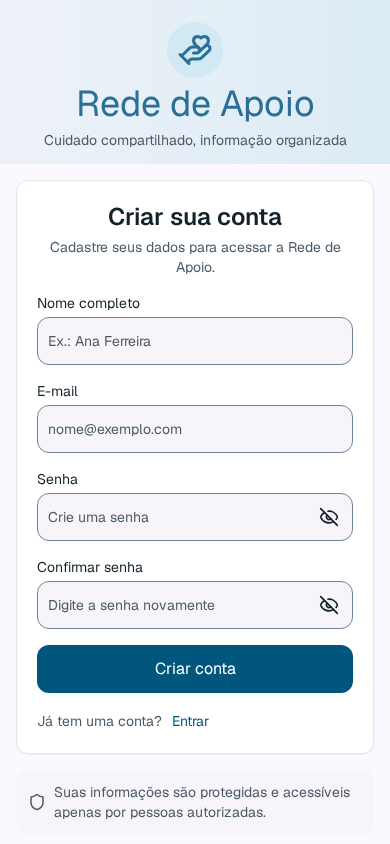
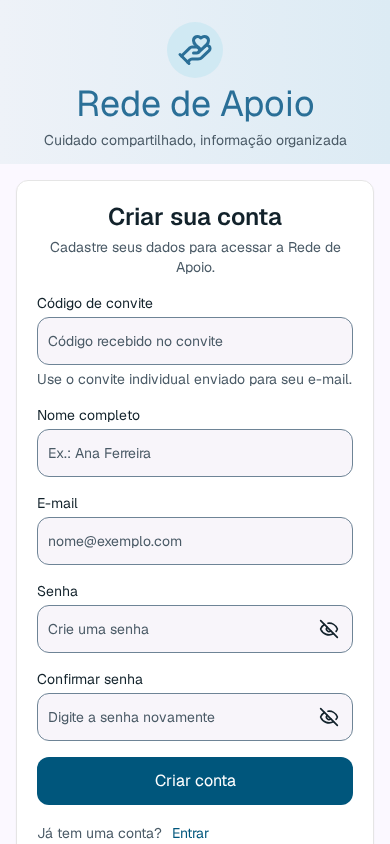
docs(auth): record real MySQL invitation evidence and remaining gates

diff --git a/docs/10_IMPLEMENTACAO/US001_CADASTRO_CONTA_V1.md b/docs/10_IMPLEMENTACAO/US001_CADASTRO_CONTA_V1.md
@@ -1,99 +1,95 @@
-# US-001 — Cadastro de Conta: implementação parcial para revisão
+# US-001 / RF01 / T02 — cadastro de CUIDADOR por convite
 
-**Issue:** [#37](https://github.com/webkauadev/rede-de-apoio/issues/37). **Branch:** `feat/us001-cadastro-conta-v1`. **Owner:** David, preservado. Base: scaffold revisado e incorporado em `ed75c72`, PR #118. Esta entrega não conclui a US e não libera cadastro em ambiente público.
+**Estado:** fluxo local implementado, em validação/revisão humana no **Draft PR #120**, branch `feat/us001-cadastro-conta-v1`. Owner David preservado. Nenhum merge, deploy ou encerramento automático da Issue.
 
-## Fontes e escopo
+## Fontes canônicas
 
-- [Comentário técnico atual](https://github.com/webkauadev/rede-de-apoio/issues/37#issuecomment-6091789679), [aceite aprovado](https://github.com/webkauadev/rede-de-apoio/issues/37#issuecomment-5673832998), [RF01/#5](https://github.com/webkauadev/rede-de-apoio/issues/5), RNF01.
-- [Aceites canônicos](../01_REQUIREMENTS/ACCEPTANCE_CRITERIA.yaml), [decisões V1](DECISOES_V1_HOMOLOGADAS.md), [stack](STACK_V1_HOMOLOGADA.md), [gates](GATES_DE_IMPLANTACAO_V1.md), [permissões](../02_BUSINESS_RULES/PERMISSIONS_MATRIX.md).
-- T02: [baseline congelada](FIGMA_SNAPSHOT/assets/T02.png), [registry](../07_AI_CONTEXT/SCREEN_REGISTRY.yaml), [estados](../07_AI_CONTEXT/STATE_MATRIX.yaml), [tokens](../04_DESIGN_SYSTEM/DESIGN_TOKENS.md) e [componentes](../04_DESIGN_SYSTEM/COMPONENT_MAP.yaml). Nenhum snapshot, RF, aceite, permissão ou DDL foi alterado.
+- [Issue #37](https://github.com/webkauadev/rede-de-apoio/issues/37), [três aceites aprovados](https://github.com/webkauadev/rede-de-apoio/issues/37#issuecomment-5673832998), RF01/RNF01.
+- **[DEC-AUTH-001 homologada](DEC_AUTH_001_CONVITES_CUIDADORES.md)** e [aprovação na Issue](https://github.com/webkauadev/rede-de-apoio/issues/37#issuecomment-6092864135) resolvem a lacuna de autorização de cadastro. Não permanece BLOCKED_BY_DECISION para esse modelo.
+- [Instruções de continuação do PR](https://github.com/webkauadev/rede-de-apoio/pull/120#issuecomment-6092916927), [decisões V1](DECISOES_V1_HOMOLOGADAS.md), [stack](STACK_V1_HOMOLOGADA.md), [aceites](../01_REQUIREMENTS/ACCEPTANCE_CRITERIA.yaml), [permissões](../02_BUSINESS_RULES/PERMISSIONS_MATRIX.md), [gates](GATES_DE_IMPLANTACAO_V1.md).
+- [T02 congelada](FIGMA_SNAPSHOT/assets/T02.png), [estados](../07_AI_CONTEXT/STATE_MATRIX.yaml), [tokens](../04_DESIGN_SYSTEM/DESIGN_TOKENS.md). Baseline e critérios não foram alterados.
 
-`/cadastro` implementa T02 com AuthShell, campos nome/e-mail/senha/confirmação, visibilidade de senha, validações associadas aos campos, foco no primeiro erro, loading sem duplo envio e feedback de indisponibilidade no mesmo shell. Não usa a navegação autenticada. Todos os controles têm pelo menos 48 × 48 px; scroll fica contido abaixo do header. Desktop centraliza a composição de 390 px da baseline; telas menores podem rolar. O botão Entrar permanece desabilitado até T01/US-002. Confirmação de criação no componente só pode aparecer com resposta 201 real; o resolver atual torna esse caminho inacessível. Não existe login automático, sessão ou redirecionamento funcional nesta entrega.
+## Fluxo e segurança
 
-## Bloqueios explícitos
+1. Operador técnico local, autenticado pelo SO e por credenciais do MySQL descartável autorizado, emite o primeiro convite pela CLI. Não existe endpoint de emissão, formulário público, usuário admin ou papel do operador no app.
+2. T02 aceita código individual mascarado ou fragmento `#convite=...`. O navegador remove o fragmento do histórico antes de preencher o campo; token não vai em query/referrer, storage ou analytics. A página usa `no-referrer`. Dados inválidos têm mensagens ligadas aos campos e foco; loading mantém o AuthShell. A adição de código/ajuda é o delta necessário da DEC-AUTH-001; demais campos/tokens/controles são reutilizados. Conteúdo maior rola no viewport abaixo do header, inclusive em 320×568; targets ≥48×48.
+3. Backend exige origem canônica **explicitamente configurada** e JSON limitado a 8192 bytes. Zod estrito rejeita campos de papel/rede/categoria/autorização/emitente. Senhas são preservadas sem trim, confirmação igual e limite técnico 1024 bytes. E-mail usa trim/lowercase, formato e limite 254; nome trim/limite 160. Não foi inventada política de composição de senha.
+4. Antes de Argon2id, aplica limite persistente por janela UTC no MySQL e verifica token SHA-256, e-mail exato, expiração, uso e revogação. Nenhum erro expõe existência de e-mail, SQL, credenciais ou token. O retorno 409 genérico também cobre convite usado e conflito de unicidade.
+5. Argon2id real (`argon2` 0.45.1), m=19456 KiB, t=2, p=1, salt aleatório, hash 32 bytes. [OWASP](https://cheatsheetseries.owasp.org/cheatsheets/Password_Storage_Cheat_Sheet.html), [node-argon2](https://github.com/ranisalt/node-argon2).
+6. Transação confirma novamente convite com `SELECT ... FOR UPDATE`, insere somente `usuario/CUIDADOR`, consome convite exigindo uma linha alterada e grava auditoria PERMITIDO. Qualquer falha reverte esses efeitos juntos. UNIQUE do e-mail é a garantia final. DENY de convite/dados é sanitizado e persiste fora do rollback; limitações ficam nos contadores persistentes, sem eventos ilimitados por tentativas bloqueadas.
+7. COMMIT sem confirmação descarta a conexão; não faz rollback enganoso ou repetição de INSERT. Reconcilia somente leitura: convite consumido + e-mail + hash Argon2id aleatório **desta operação**. Sem essa prova, 503 informa resultado não confirmado. Repetição normal de convite usado retorna 409, sem efeito novo.
+8. Cadastro não cria sessão, `membro_rede`, papel familiar, rede, plantão ou acesso clínico. Identidade fica disponível no modelo comum de autenticação; login/sessões continuam US-002. Pessoa Idosa e convites de titular continuam US-036/DB-017. Emissão posterior pelo Principal depende de US-002/005/007; não foi fabricada integração de administração de rede.
 
-### BLOCKED_BY_DECISION — como comprovar usuário autorizado
+## Bootstrap local controlado
 
-RF01 e o aceite de US-001 exigem usuário autorizado, mas as fontes consultadas não definem mecanismo de autorização inicial para cadastro. O comentário técnico determina negar/restringir sem inventar requisito. `authorizeRegistration()` sempre nega; não há flag de ambiente, parâmetro do cliente, convite inventado ou bypass público para habilitar cadastro. A rota responde 403 com explicação, antes de hash ou conexão MySQL.
+Token CSPRNG de 32 bytes em base64url; somente SHA-256 é persistido. CLI exige `--confirm-local-disposable`, usuário de SO não-root, ambiente local autorizado, origem/host loopback, arquivo novo (`O_EXCL`, 0600) e diretório privado do próprio operador (0700). Não aceita token como argumento e não imprime token. A entrega a um destinatário depende de canal privado autorizado, fora de logs; nenhuma mensagem externa foi enviada nesta execução.
 
-**migration_required:** registrar na Issue #37 uma decisão humana específica sobre a comprovação de autorização, seu contexto/validade e os testes negativos correspondentes. Isso é uma lacuna registrada, não novo critério aprovado. O serviço aceita uma dependência de autorização exclusivamente de servidor para viabilizar a decisão futura; permissões positivas nos testes são simuladas e não equivalem a autorização homologada.
+Emissão e cadastro usam o mesmo lock nomeado na **mesma conexão** da transação, preservando ausência de cuidadores e único bootstrap aberto diante de corrida. Isso serializa a seção final de criação e o bootstrap nesta V1 local; o hash fica antes da seção crítica. [Locks nomeados MySQL 8.4](https://dev.mysql.com/doc/refman/8.4/en/locking-functions.html) precisam de liberação explícita na conexão, inclusive após commit; falha de liberação destrói conexão. FOR UPDATE e índices permanecem como proteção dos dados.
 
-### G-DB — persistência e concorrência reais pendentes
+Convite vencido ainda ocupa “aberto”. Reemitir exige `--revoke-previous` explícito e zero CUIDADOR. `--revoke` revoga somente bootstrap aberto. `--hours` aceita 1–168 horas como limite técnico de operação, padrão 24. Falha de escrita/COMMIT na emissão pode exigir revogação/reconciliação operacional; **não repetir automaticamente**. Depois de existir CUIDADOR, a CLI nega nova emissão bootstrap.
 
-Nenhum MySQL foi instalado, provisionado, conectado ou executado. Não houve importação, migration, seed ou uso de dados reais. Não há ambiente MySQL 8.4 descartável explicitamente liberado para esta execução. O [SQL V1](../../database/mysql/001_rede_de_apoio_schema.sql) permanece intacto.
+## Controle técnico de abuso e limites de publicação
 
-O repositório utiliza apenas `INSERT INTO usuario (nome, email_normalizado, senha_hash, tipo_acesso) VALUES (?, ?, ?, 'CUIDADOR')`, dentro da infraestrutura transacional existente. A restrição `uq_usuario_email` é a proteção definitiva contra duplicação. Não há consulta seguida de INSERT como garantia de unicidade. `ER_DUP_ENTRY` vira uma classificação sanitizada, sem SQL, e-mail, credenciais ou mensagem do driver; o serviço retorna erro genérico. Falha ao confirmar COMMIT continua descartando a conexão, sem rollback enganoso ou retry automático.
+`004_cadastro_rate_limit.sql` é aditivo, sem alteração do `001`/`003` e sem nova regra funcional. Acrescenta buckets persistentes sem IP/e-mail/token bruto: global **30 tentativas/minuto**, por hash de convite **5/15 minutos**, ambos parâmetros de engenharia para revisão. Incremento é atômico, nega antes do hash e confirma contagem mesmo se cadastro falhar. Bucket global nega antes de criar buckets arbitrários; contadores sobrevivem a novo pool/processo. Indisponibilidade do banco/limitador nega o cadastro, sem fallback em memória.
 
-Testes com executor simulado comprovam o contrato e tratamento de erro; **não comprovam UNIQUE, rollback, charset ou concorrência no MySQL**. A integração futura deve executar o SQL homologado em ambiente descartável autorizado e verificar duas requisições concorrentes para o mesmo e-mail, uma identidade persistida, hash verificável, zero vínculos/papéis e reconciliação de COMMIT incerto. G-DB segue aberto; não encerrar a Issue.
+A aplicação só habilita este fluxo no perfil explícito `REGISTRATION_ENVIRONMENT=local-disposable`, com banco loopback e origem local. Esse perfil **não comprova autorização**: convite válido continua obrigatório. Fora dele permanece 403. Rate limit global conservador é adequado ao ensaio, não certificação anti-abuso para exposição pública. G-AUTH/G-SEC/G-PRIV/G-REL continuam exigindo revisão; sessão/recovery e operação pública estão fora desta entrega.
 
-## Contratos e segurança
+## MySQL real autorizado e reprodução no Fedora
 
-- Zod estrito no cliente e no servidor: campos desconhecidos (papel, rede, tipo_acesso, admin) são rejeitados; somente quatro entradas são aceitas.
-- Nome: trim, obrigatório, limite de 160 caracteres do schema. E-mail: trim/lowercase, formato válido, até 254 caracteres. Sem heurísticas de Gmail ou remoção de pontos. A collation MySQL `utf8mb4_0900_ai_ci` pode considerar equivalentes valores além dessa normalização; verificar no gate real, sem mudar o DDL por hipótese.
-- Senha e confirmação são preservadas sem trim; obrigatórias e iguais. **Não há política aprovada de composição ou mínimo de oito caracteres**. Limite de 1024 bytes UTF-8 é proteção técnica contra custo excessivo, não novo requisito funcional; corpo HTTP limitado a 8192 bytes antes de JSON.parse. Revisão humana pode ajustar estes limites técnicos.
-- Argon2id (`argon2` 0.45.1), memória 19456 KiB, duas iterações, paralelismo 1, hash 32 bytes, salt aleatório da biblioteca. Referência: [OWASP Password Storage](https://cheatsheetseries.owasp.org/cheatsheets/Password_Storage_Cheat_Sheet.html) e [node-argon2](https://github.com/ranisalt/node-argon2). Testes usam o algoritmo real e verificam hashes/salts.
-- Cadastro preparado cria somente `usuario` com `CUIDADOR`; nenhum `membro_rede`, Familiar Principal, Plantonista Atual, rede, permissão clínica ou sessão é criado. `PESSOA_IDOSA`/convite pertence à US-036 e é rejeitado neste DTO.
-- `/api/auth/cadastro`: aceita apenas JSON, exige Origin igual à origem canônica do servidor, respostas sem cache, erros sanitizados, sem logs de payload/senha. Não confia em X-Forwarded-Host. `APPLICATION_ORIGIN` define a origem pública quando a URL interna do Next.js difere; configuração inválida nega a solicitação. Ausência usa a origem da URL recebida pelo servidor.
-- Rate limit, sessão, convite, recuperação e auditoria contextual não estão concluídos. G-AUTH continua aberto. Não liberar endpoint de cadastro enquanto faltarem decisão de autorização, controles aplicáveis e prova de integração. O resolver fechado atualmente impede processamento Argon2/SQL por requisições públicas.
-
-## Reprodução no Fedora
-
-Ambiente utilizado: Fedora 44 x86_64, Node 24.18.0, npm 11.16.0, Python 3.14.7. O Argon2 funcionou com o binário disponibilizado pelo pacote, sem instalar MySQL ou alterar bibliotecas do sistema.
+Fedora 44 x86_64; Podman 5.8.7 rootless; Node 24.18.0; npm 11.16.0; Python 3.14.7. Harness usa `mysql:8.4`, verifica versão/destino, cria nome/rótulo exclusivos e volume anônimo novo, mapeia só `127.0.0.1:<porta-livre>:3306`. Credenciais CSPRNG ficam em diretório temporário 0700/arquivos 0600 fora do Git. Container e volume preexistentes, inclusive MySQL do host, não são utilizados.
 
 ```bash
 npm ci
-APPLICATION_ORIGIN=http://localhost:3000 npm run dev
-# Abra http://localhost:3000/cadastro; cadastro será negado pelo resolver.
-npm run format:check
-npm run lint
-npm run typecheck
-npm test
+podman pull docker.io/library/mysql:8.4
+node scripts/mysql-disposable.mjs start
+# Copie somente o caminho state.json informado, nunca seu conteúdo/segredos.
+# Exemplo abaixo: substitua <estado-privado> pelo caminho emitido.
+node scripts/run-disposable-check.mjs <estado-privado> npm run test:integration
 npm run build
-npm run test:e2e
-npm audit --omit=dev --audit-level=high
-.venv/bin/python scripts/validate_agent_context.py
-.venv/bin/python scripts/validate_sql_prototype.py
-.venv/bin/python scripts/validate_visual_snapshot.py
-.venv/bin/python scripts/validate_implementation_backlog.py
+node scripts/run-disposable-check.mjs <estado-privado> npm run test:e2e:mysql
+# Para desenvolvimento com este ambiente: npm run dev -- --hostname 127.0.0.1 --port 3100 via run-disposable-check.
+# Bootstrap manual, com destino em diretório 0700 do operador:
+node scripts/run-disposable-check.mjs <estado-privado> npm run invite:bootstrap -- --email synthetic@example.invalid --token-file /caminho/privado/convite --confirm-local-disposable
+# Somente recursos criados pelo harness; identidade/rótulo são conferidos:
+node scripts/mysql-disposable.mjs stop <estado-privado>
 ```
 
-Veja [runbook](RUNBOOK_LOCAL_V1.md) para preparar Python/PyYAML e Chromium. Playwright inicia o build em `http://127.0.0.1:3100`, configura essa origem no servidor e verifica mobile 390 × 844 e desktop. Somente o teste de loading intercepta resposta atrasada; os testes de autorização usam o handler HTTP real. Usam identidades sintéticas `example.invalid`. A vulnerabilidade de desenvolvimento preexistente permanece acompanhada em [#119](https://github.com/webkauadev/rede-de-apoio/issues/119); o audit de runtime é obrigatório.
+Se prontidão expirar, `initialize <estado-privado>` permite retomar **somente no container identificado**, e só importa em schema vazio. Não inicialize host:3306 ou servidor externo. `run-disposable-check` confere nome/rótulo/ID antes de executar comando com ambiente privado. Ensaios usam somente `example.invalid` e dados sintéticos; arquivos de token são removidos ao final.
 
-## Rastreabilidade e próximos passos
+O harness executa `001` (30 tabelas), `002` de leitura ainda no baseline de 30, `003` (31) e `004` (32). Salva metadados/SHOW CREATE TABLE sem valores de usuários ou tokens. [Evidência estrutural](EVIDENCIAS/US001/mysql-structure.json). `001` e `002` permanecem intactos; contagens históricas não foram alteradas para esconder a migração.
 
-Implementação parcial está registrada em `SCREEN_REGISTRY.yaml`, `COMPONENT_MAP.yaml` e `CURRENT_PROJECT_STATE.md`. O backlog histórico das 36 US e os aceites aprovados permanecem preservados; seu validador exige revisão manual antes de alterar estados de implementação. Este documento registra progresso em revisão sem afirmar conclusão ou transformar a projeção em tracker.
+## Resultados reais
 
-Para concluir US-001: homologar autorização na Issue, liberar ambiente descartável, provar persistência/concorrência e vínculos ausentes, revisar limites técnicos e UI, obter CI verde e revisão humana. Só então avaliar encerramento. US-002 reutilizará AuthShell e hash, mas login/sessões continuam em escopo próprio; US-036 terá convite separado. Nenhum merge ou deploy está autorizado.
-
-## Evidências executadas no Fedora — 2026-10-09
+Verificações executadas após `npm ci` limpo no Fedora:
 
 | Comando | Resultado real |
 |---|---|
-| `npm ci` | PASS — instalação pelo lockfile; Argon2id executado depois da instalação limpa |
-| `npm run format:check` | PASS |
-| `npm run lint` | PASS — zero warnings |
-| `npm run typecheck` | PASS |
-| `npm test` | PASS — 52 testes em 4 arquivos |
-| `npm run build` | PASS — `/cadastro` estática e `/api/auth/cadastro` dinâmica, sem MySQL |
-| `npm run test:e2e` | PASS — 16 testes, mobile e desktop, 14 específicos deste incremento |
+| `npm ci` | PASS — lockfile, Argon2 e CLI TypeScript nativa verificados |
+| `npm run format:check`, `npm run lint`, `npm run typecheck` | PASS |
+| `npm test` | **67 PASS** em 5 arquivos |
+| `npm run build` | PASS — página/handler, sem banco necessário para build |
+| `npm run test:e2e` | **18 PASS** mobile/desktop sem MySQL |
+| `npm run test:integration` via harness | **18 PASS**, MySQL 8.4.11 real |
+| `npm run test:e2e:mysql` via harness | **6 PASS**, navegador/CLI/API/MySQL real, mobile/desktop |
+| Quatro validadores Python | PASS — contexto, SQL baseline, 26 imagens, backlog/aceites |
 | `npm audit --omit=dev --audit-level=high` | PASS — zero vulnerabilidades de runtime |
-| `validate_agent_context.py` | PASS — 17 telas, 36 US, 30 RF |
-| `validate_sql_prototype.py` | PASS estático — 30 tabelas, 77 FKs, 120 constraints; não prova execução MySQL |
-| `validate_visual_snapshot.py` | PASS — 26 PNGs canônicos preservados |
-| `validate_implementation_backlog.py` | PASS — 36 US e comentários aprovados preservados |
 | `git diff --check` | PASS |
+| Scanner de credenciais efêmeras em arquivos versionáveis | PASS — nenhum segredo encontrado |
 
-Falhas corrigidas durante o desenvolvimento: teste Argon2 assumia ordem dos parâmetros PHC (a biblioteca ordena diferentemente; agora compara parâmetros sem depender da ordem); teste SQL inicialmente fora do setup dos mocks; seleção de alert confundia anunciação de rota do Next.js com formulário; origem externa distinta da URL interna do Next.js (correção testada por configuração explícita). Nenhuma falha local causada pela alteração permanece aberta.
+Corridas comprovaram uma conta, um convite consumido e um evento PERMITIDO; segunda requisição negada, sem efeitos duplicados. Os 18 ensaios SQL incluem conexão concorrente realmente bloqueada por FOR UPDATE, índices UNIQUE, rollback após consumo, convite expirado/revogado/token/e-mail incorreto antes de Argon2id, bootstrap concorrente, reemissão explícita, persistência do limitador após novo pool e segurança da CLI. As duas suites de navegador verificaram também 403/422/409/429 reais.
 
-Capturas de execução separadas do snapshot canônico:
+**Cleanup confirmado:** `node scripts/mysql-disposable.mjs stop` removeu somente `rede-apoio-us001-e55972cbcfcc` e seu volume anônimo após validar ID/nome/rótulo. Diretório de credenciais apagado; `mysql-workbench`, `compat` e MySQL preexistente do host preservados. Cache da imagem permanece disponível. Nenhum ensaio tocou produção.
 
-- [T02 mobile default](EVIDENCIAS/US001/T02-mobile-default.png) e [desktop default](EVIDENCIAS/US001/T02-desktop-default.png).
-- [Validation Error](EVIDENCIAS/US001/T02-mobile-validation.png).
-- [Loading — resposta atrasada simulada](EVIDENCIAS/US001/T02-mobile-loading-simulated.png).
-- [Negação pelo handler real](EVIDENCIAS/US001/T02-mobile-authorization-pending.png).
+[Estrutura física](EVIDENCIAS/US001/mysql-structure.json) / [Resumo verificável](EVIDENCIAS/US001/results.json) / [T02 mobile](EVIDENCIAS/US001/T02-mobile-default.png) / [desktop](EVIDENCIAS/US001/T02-desktop-default.png) / [validação](EVIDENCIAS/US001/T02-mobile-validation.png) / [loading simulado](EVIDENCIAS/US001/T02-mobile-loading-simulated.png) / [ambiente fechado](EVIDENCIAS/US001/T02-mobile-authorization-pending.png). As capturas foram atualizadas após o delta do convite, sem alterar snapshots canônicos. CI do head publicado será registrado no PR. As suítes são separadas: `npm test` unitário; `npm run test:e2e` interface/negação sem MySQL; `test:integration` MySQL real; `test:e2e:mysql` navegador/API/banco real. CI padrão valida aplicação/contexto e continua sem conexão MySQL; a autorização de ensaio físico desta entrega foi aplicada no Fedora local.
 
-Revisão visual manual comparou estrutura, tokens, hierarquia, espaçamento e viewport com T02 congelada; não é certificação pixel-perfect. Capturas com campos preenchidos usam somente dados sintéticos. CI remoto será registrado no Draft PR; não confundir checks verdes com aceites funcionais integralmente comprovados.
+Na integração, todas as respostas SQL vêm do MySQL real. Testes de confirmação incerta **injetam perda de confirmação após COMMIT real**, incluindo descarte da conexão real pelo driver, ou antes de qualquer efeito, e verificam reconciliação; não afirmam ter causado uma queda real de rede/produção. Traces/vídeos/capturas e snapshot DOM automático de falha dos testes com token real ficam desativados (PLAYWRIGHT_NO_COPY_PROMPT), e os campos são limpos no teardown para impedir vazamento; capturas visuais usam código sintético inválido mascarado.
 
-## ATUALIZAÇÃO DE APROVAÇÃO — DEC-AUTH-001 (2026-10-09)
+Falha de desenvolvimento encontrada/corrigida: expressão de vigência retorna `"0"` com opções BIGINT do driver; conversão explícita impede hash de convite vencido. Também corrigidos fixtures sem o novo campo e comparação de posição em loading que ignorava scroll necessário do botão. Primeiro prazo de startup MySQL expirou antes de prontidão; execução retomada somente no container próprio identificado.
 
-**Este adendo substitui apenas o status da lacuna decisória registrado acima**: o usuário aprovou cadastro de **CUIDADOR por convite individual** e bootstrap técnico restrito, com autorização para testes reais em **MySQL 8.4 local, isolado e descartável no Fedora, somente com dados sintéticos**. Registro canônico [Issue #37](https://github.com/webkauadev/rede-de-apoio/issues/37#issuecomment-6092864135). [Contrato completo](DEC_AUTH_001_CONVITES_CUIDADORES.md) e [SQL incremental 003](../../database/mysql/003_convite_cadastro_cuidador.sql). **O código atual ainda nega todo cadastro** e essa migração ainda não foi executada/validada; o Codex deve implementar o consumo atômico do convite, testar a persistência e atualizar este relatório. Não fechar US-001 nem publicar enquanto faltarem testes/revisão.
+## Aceites e revisão
+
+1. Usuário com convite autorizado cria identidade por T02: comprovado localmente por CLI → navegador → handler → MySQL.
+2. Identidade usa estrutura comum `usuario`/e-mail/Argon2id e não ganha acesso além do atribuído: hash verificado e ausência de sessão/vínculos comprovadas. Login comum ponta a ponta ainda pertence à US-002; **não declarar esse fluxo concluído nem fechar a US agora**.
+3. Cadastro não concede papel/permissão: zero vínculos/papéis/redes/plantões, DTO privilegiado rejeitado e SQL restrito comprovados.
+
+Revisão humana dos três aceites permanece obrigatória. Evidência de US-001 não encerra **G-DB global**: concorrência de Principal/tarefa/plantão e outras US ainda exigem seus ensaios. GHSA dev preexistente continua em [#119](https://github.com/webkauadev/rede-de-apoio/issues/119); audit de runtime é obrigatório. Não marcar RF01/US-001 finalizadas, mudar owner, fazer merge ou deploy.

diff --git a/docs/07_AI_CONTEXT/CURRENT_PROJECT_STATE.md b/docs/07_AI_CONTEXT/CURRENT_PROJECT_STATE.md
@@ -308,3 +308,7 @@ Scaffold Next.js V1 em `feat/infra-scaffold-v1`, com página técnica, shell/tok
 ## Atualização — scaffold incorporado e US-001 em revisão (2026-10-09)
 
 O PR #118 foi incorporado à main por revisão humana, base `ed75c72`. A seção anterior de infraestrutura em proposta é histórica. US-001/#37 possui implementação **parcial** na branch `feat/us001-cadastro-conta-v1`: T02/AuthShell, contrato Zod, Argon2id, serviço/repositório preparados e testes. O resolver oficial nega cadastro antes de hash/SQL enquanto faltar decisão canônica sobre como comprovar usuário autorizado (**BLOCKED_BY_DECISION / migration_required**). Persistência e concorrência MySQL não executadas; **G-DB aberto**. Não há sessão, rede, papéis ou cadastro concluído. [Evidências e limites](../10_IMPLEMENTACAO/US001_CADASTRO_CONTA_V1.md). Owner David, aceites e backlog histórico preservados; PR draft e revisão humana obrigatórios.
+
+## Continuação DEC-AUTH-001 — fluxo local de convite em revisão
+
+DEC-AUTH-001 homologada na Issue #37 resolveu o modelo de autorização. Na mesma branch/PR #120, bootstrap é CLI local controlada; T02 aceita convite individual, validado/consumido atomicamente com criação somente de identidade CUIDADOR. Rate limit persistente, auditoria sanitizada, origem configurada e reconciliação de COMMIT foram implementados. MySQL **8.4.11 rootless local descartável** executou `001`/`002`/`003`/`004`: 30/30/31/32 tabelas; DDL base preservado. [Evidências e limites atuais](../10_IMPLEMENTACAO/US001_CADASTRO_CONTA_V1.md) substituem os bloqueios funcionais históricos da seção anterior. Login/sessões US-002, emissão futura por Principal US-005/007, segurança pública e revisão humana continuam pendentes; US/RF não finalizadas e G-DB global não encerrado. Sem merge/deploy.

diff --git a/database/mysql/README.md b/database/mysql/README.md
@@ -75,3 +75,7 @@ O arquivo `001_rede_de_apoio_schema.sql` foi consolidado para **30 tabelas MySQL
 ## SQL incremental de convite CUIDADOR — DEC-AUTH-001
 
 Após a aprovação específica do usuário em 2026-10-09, foi preparado [003_convite_cadastro_cuidador.sql](003_convite_cadastro_cuidador.sql) como **migração estritamente aditiva**, complementar às **30 tabelas do 001**. Juntos, os scripts definem **31 tabelas** num banco descartável após execução real. Este novo arquivo NÃO integra o EER histórico de 30 tabelas sem uma nova importação nem altera o `001`; `002_validar_estrutura.sql` inspeciona metadados. **O SQL 003 ainda não foi executado em MySQL 8.4**: Codex deve verificar sintaxe, unicidades geradas e concorrência no ambiente de ensaio autorizado e corrigir em PR antes da aprovação. [Autoridade/limites](../../docs/10_IMPLEMENTACAO/DEC_AUTH_001_CONVITES_CUIDADORES.md). A autorização é local, em contêiner descartável no Fedora, com dados fictícios; nunca em banco real ou produção.
+
+## Ensaio físico US-001 autorizado por DEC-AUTH-001
+
+O incremento do Draft PR #120 executou os arquivos no MySQL 8.4.11 **local, rootless e descartável**, com dados sintéticos: `001` e validação `002` (30 tabelas), `003` (31), `004_cadastro_rate_limit.sql` (32). O quarto arquivo acrescenta somente buckets técnicos persistentes de abuso. [Runbook/evidências](../../docs/10_IMPLEMENTACAO/US001_CADASTRO_CONTA_V1.md). Não significa execução em produção nem encerramento do G-DB global; `001`/`002` preservados.

diff --git a/docs/10_IMPLEMENTACAO/GATES_DE_IMPLANTACAO_V1.md b/docs/10_IMPLEMENTACAO/GATES_DE_IMPLANTACAO_V1.md
@@ -31,3 +31,7 @@
 5. Produção com dados reais somente após G-PRIV/G-SEC/G-REL concluídos.
 
 **Importante:** a autorização atual para consolidar SQL e PRs documentais não é autorização para provisionar um MySQL por conta própria.
+
+## Evidência posterior parcial — US-001 / DEC-AUTH-001
+
+A autorização específica da DEC-AUTH-001 permitiu o ensaio **local descartável**, registrado no [handoff US-001](US001_CADASTRO_CONTA_V1.md). MySQL 8.4.11 executou baseline 001/validação 002 (30 tabelas), convite 003 (31) e buckets técnicos 004 (32), com persistência/concorrência de convite, bootstrap e rollback comprovados. A indicação histórica “NÃO EXECUTADO” não descreve mais essa parte do ensaio. **G-DB global permanece aberto** para as demais transações de Principal/tarefa/plantão e domínios. G-AUTH possui Argon2id/convite/limitação/auditoria de cadastro local implementados, mas login, sessão, recuperação e liberação pública continuam pendentes. Não implica fechamento de US, merge ou deploy.

diff --git a/docs/10_IMPLEMENTACAO/README.md b/docs/10_IMPLEMENTACAO/README.md
@@ -40,7 +40,7 @@ O app ainda nao tem stack, backend/frontend, migrations ou auth definidos/implem
 
 ## US-001 — cadastro em revisão
 
-[Handoff US-001 / Issue #37](US001_CADASTRO_CONTA_V1.md): T02 executável e serviço de identidade preparado. **Cadastro ainda bloqueado** por decisão de autorização ausente e integração MySQL não executada. Não tratar testes simulados como prova de persistência nem encerrar a Issue.
+[Handoff US-001 / Issue #37](US001_CADASTRO_CONTA_V1.md): T02 executável e serviço de identidade preparado. DEC-AUTH-001 resolve o modelo de autorização; fluxo local por convite e integração MySQL real registrados no handoff. Revisão humana, login US-002 e gates de publicação continuam pendentes; não encerrar a Issue.
 
 ## DEC-AUTH-001 — convites CUIDADOR (homologada 2026-10-09)
 
